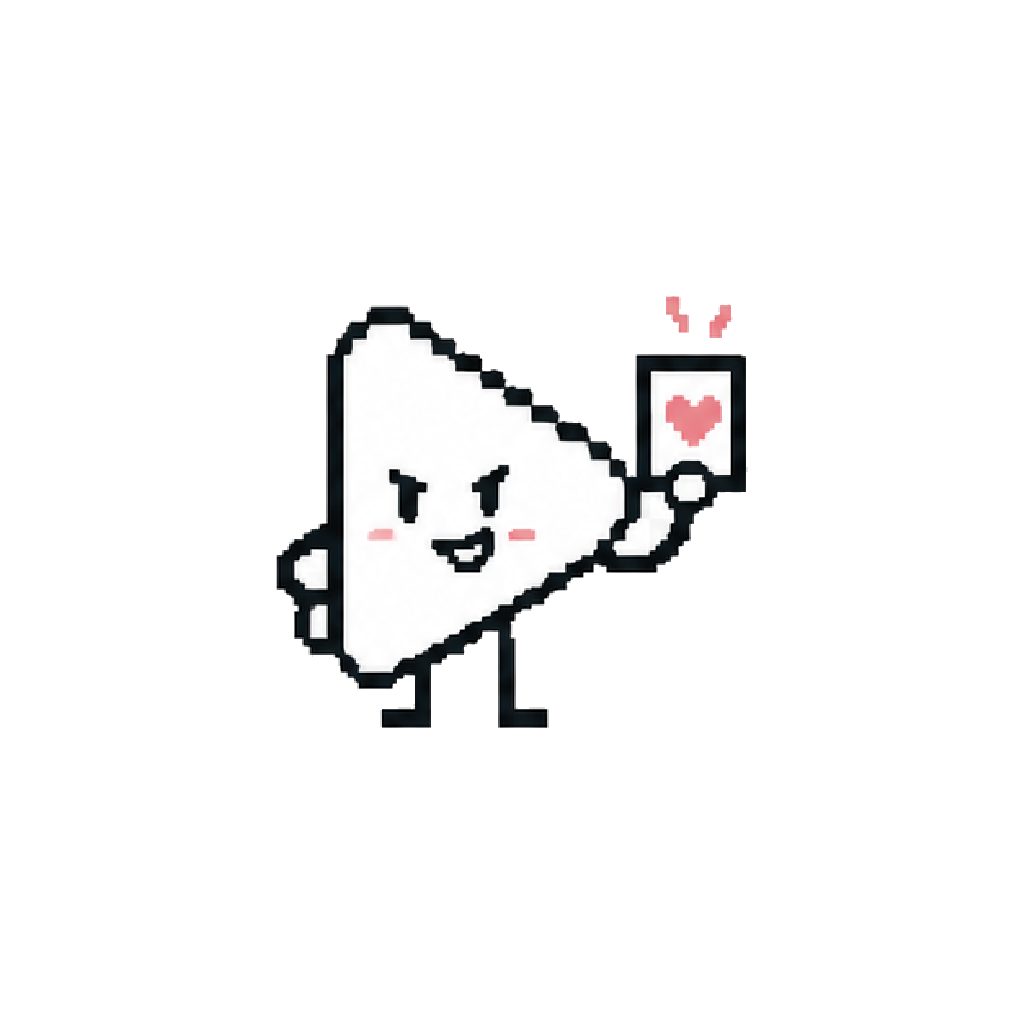
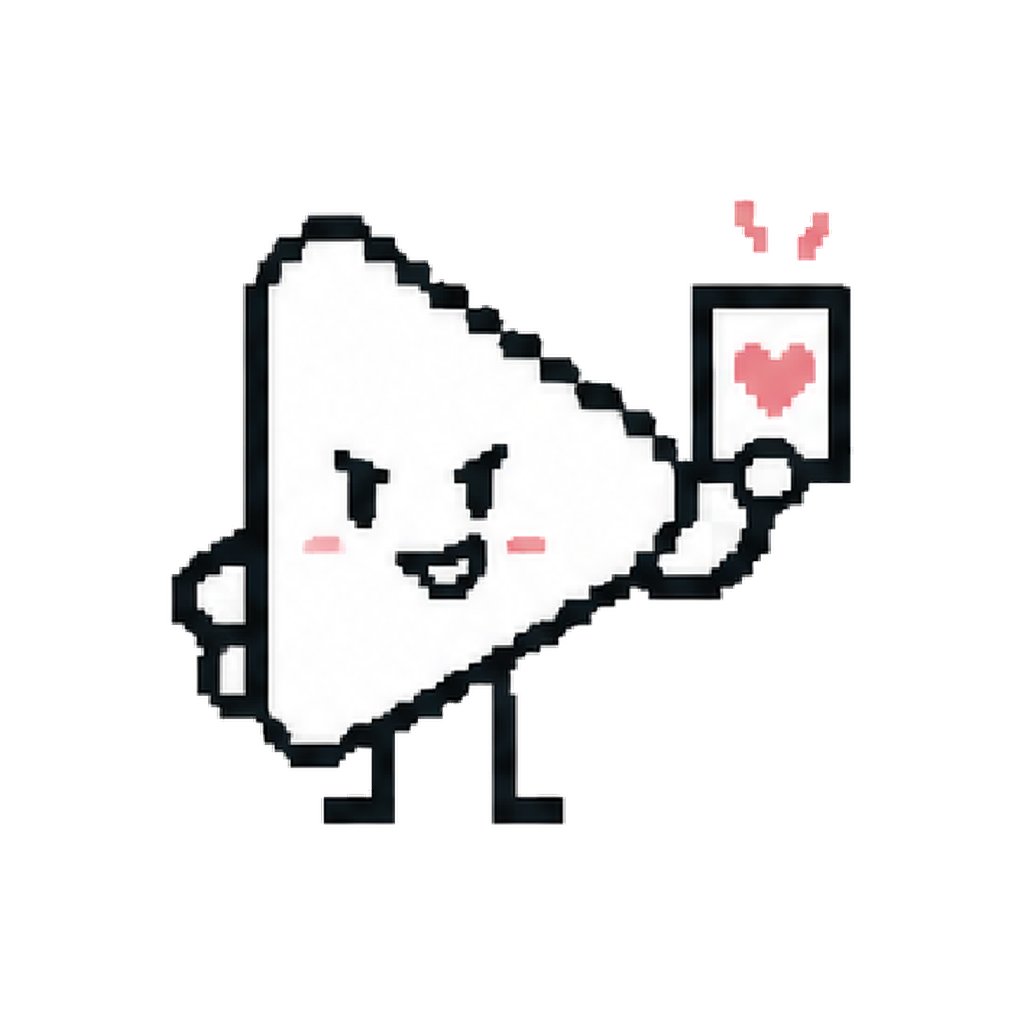
feat: 로고 통일·클릭 이동 + 로딩 화면 픽터/사진 일관성
- 모든 페이지 로고를 랜딩 기준으로 통일 (height 48, paddingTop 12, 상단 고정 중앙)
  preference엔 로고 신규 추가(뒤로가기는 좌상단 absolute로 분리)
- 모든 페이지 로고 터치 → 메인(/) 이동
- 스토리 카드 로고 84→130 (result 페이지와 상대 비율 맞춤)
- 로딩 화면:
  - 1·2단계 사진 썸네일 흐림(opacity 0.65/0.5) 제거 → 1.0, 0단계와 일관
  - 픽터 PNG(analyzing·music-picking·found) 재크롭 — 캔버스 대비 캐릭터
    비율 41~47% → ~67%로 타이트하게, 3단계 width 112로 통일
  - 1단계 found.png, 2단계 music-picking.png로 교체
    (vibe-groove는 preference hero 전용 — 중복 제거)

Changed region(s): [[0.1562, 0.1875, 0.8438, 0.8125]]

diff --git a/src/app/preference/page.tsx b/src/app/preference/page.tsx
@@ -236,14 +236,24 @@ export default function PreferencePage() {
     >
       <HamburgerMenu />
 
-      {/* 상단 바 — 뒤로가기만 */}
-      <div className="flex items-center px-5 pt-12 pb-3">
-        <button
-          onClick={() => router.back()}
-          style={{ fontSize: 20, color: "#5D4F8C", background: "none", border: "none", cursor: "pointer" }}
-        >
-          ←
-        </button>
+      {/* 뒤로가기 — 좌상단 (HamburgerMenu와 같은 top band) */}
+      <button
+        onClick={() => router.back()}
+        aria-label="뒤로"
+        style={{ position: "absolute", top: 16, left: 16, fontSize: 22, color: "#5D4F8C", background: "none", border: "none", cursor: "pointer", zIndex: 50, lineHeight: 1 }}
+      >
+        ←
+      </button>
+
+      {/* 상단 앱 로고 — 랜딩 페이지와 동일 */}
+      <div className="flex justify-center" style={{ paddingTop: 12, flexShrink: 0 }}>
+        {/* eslint-disable-next-line @next/next/no-img-element */}
+        <img
+          src="/branding/play-the-picture-logo-one-line.png"
+          alt="Play the Picture"
+          onClick={() => router.push("/")}
+          style={{ height: 48, width: "auto", cursor: "pointer" }}
+        />
       </div>
 
       {/* 픽터 hero + 말풍선 (말풍선이 픽터 위) */}
@@ -466,7 +476,7 @@ export default function PreferencePage() {
                 src="/characters/pikter/analyzing.png"
                 alt=""
                 className="pixel-art"
-                style={{ width: 140, height: 140, marginBottom: 4, animation: "float 2.8s ease-in-out infinite" }}
+                style={{ width: 112, height: 112, marginBottom: 4, animation: "float 2.8s ease-in-out infinite" }}
               />
               <p style={{ color: "#2e2547", fontSize: 17, fontWeight: 600, textAlign: "center", letterSpacing: "-0.3px" }}>
                 사진 속 오늘을 읽고 있어요
@@ -488,7 +498,7 @@ export default function PreferencePage() {
                   <div style={{ display: "flex", gap, justifyContent: "center", flexWrap: "wrap", marginBottom: 36 }}>
                     {loadingPhotos.map((src, i) => (
                       // eslint-disable-next-line @next/next/no-img-element
-                      <img key={i} src={src} alt="" style={{ width: sz, height: sz, objectFit: "cover", borderRadius: 14, border: "2px solid rgba(255,255,255,0.6)", opacity: 0.65, flexShrink: 0 }} />
+                      <img key={i} src={src} alt="" style={{ width: sz, height: sz, objectFit: "cover", borderRadius: 14, border: "2px solid rgba(255,255,255,0.6)", opacity: 1, flexShrink: 0 }} />
                     ))}
                     {loadingPhotos.length === 0 && (
                       <div style={{ width: 88, height: 88, borderRadius: 14, background: "rgba(255,255,255,0.4)", border: "2px solid rgba(255,255,255,0.55)" }} />
@@ -498,10 +508,10 @@ export default function PreferencePage() {
               })()}
               {/* eslint-disable-next-line @next/next/no-img-element */}
               <img
-                src="/characters/pikter/music-picking.png"
+                src="/characters/pikter/found.png"
                 alt=""
                 className="pixel-art"
-                style={{ width: 140, height: 140, marginBottom: 4, animation: "float 2.8s ease-in-out infinite" }}
+                style={{ width: 112, height: 112, marginBottom: 4, animation: "float 2.8s ease-in-out infinite" }}
               />
               <p style={{ color: "#2e2547", fontSize: 17, fontWeight: 600, textAlign: "center", letterSpacing: "-0.3px" }}>
                 사진 속 오늘을 다 읽었어요
@@ -520,7 +530,7 @@ export default function PreferencePage() {
                   <div style={{ display: "flex", gap, justifyContent: "center", flexWrap: "wrap", marginBottom: 36 }}>
                     {loadingPhotos.map((src, i) => (
                       // eslint-disable-next-line @next/next/no-img-element
-                      <img key={i} src={src} alt="" style={{ width: sz, height: sz, objectFit: "cover", borderRadius: 14, border: "2px solid rgba(255,255,255,0.6)", opacity: 0.5, flexShrink: 0 }} />
+                      <img key={i} src={src} alt="" style={{ width: sz, height: sz, objectFit: "cover", borderRadius: 14, border: "2px solid rgba(255,255,255,0.6)", opacity: 1, flexShrink: 0 }} />
                     ))}
                     {loadingPhotos.length === 0 && (
                       <div style={{ width: 88, height: 88, borderRadius: 14, background: "rgba(255,255,255,0.4)", border: "2px solid rgba(255,255,255,0.55)" }} />
@@ -530,7 +540,7 @@ export default function PreferencePage() {
               })()}
               {/* eslint-disable-next-line @next/next/no-img-element */}
               <img
-                src="/characters/pikter/vibe-groove.png"
+                src="/characters/pikter/music-picking.png"
                 alt=""
                 className="pixel-art"
                 style={{ width: 112, height: 112, marginBottom: 4, animation: "float 2.8s ease-in-out infinite" }}

diff --git a/src/app/result/page.tsx b/src/app/result/page.tsx
@@ -731,13 +731,14 @@ export default function ResultPage() {
     >
       <div>
 
-      {/* 상단 앱 로고 */}
-      <div className="flex justify-center" style={{ paddingTop: 22, paddingBottom: 8 }}>
+      {/* 상단 앱 로고 — 랜딩 페이지와 동일 (다크 배경이라 invert) */}
+      <div className="flex justify-center" style={{ paddingTop: 12, flexShrink: 0 }}>
         {/* eslint-disable-next-line @next/next/no-img-element */}
         <img
           src="/branding/play-the-picture-logo-one-line.png"
           alt="Play the Picture"
-          style={{ height: 40, width: "auto", filter: "invert(1)", opacity: 0.92 }}
+          onClick={() => router.push("/")}
+          style={{ height: 48, width: "auto", filter: "invert(1)", opacity: 0.92, cursor: "pointer" }}
         />
       </div>
 
@@ -1418,7 +1419,7 @@ export default function ResultPage() {
             alt="Play the Picture"
             decoding="sync"
             loading="eager"
-            style={{ height: 84, width: "auto", opacity: 0.92 }}
+            style={{ height: 130, width: "auto", opacity: 0.92 }}
           />
         </div>
 

diff --git a/src/app/journal/page.tsx b/src/app/journal/page.tsx
@@ -241,13 +241,14 @@ export default function JournalPage() {
     >
       <HamburgerMenu />
 
-      {/* 상단 앱 로고 */}
-      <div className="flex justify-center" style={{ paddingTop: 48, paddingBottom: 6 }}>
+      {/* 상단 앱 로고 — 랜딩 페이지와 동일 */}
+      <div className="flex justify-center" style={{ paddingTop: 12, flexShrink: 0 }}>
         {/* eslint-disable-next-line @next/next/no-img-element */}
         <img
           src="/branding/play-the-picture-logo-one-line.png"
           alt="Play the Picture"
-          style={{ height: 36, width: "auto" }}
+          onClick={() => router.push("/")}
+          style={{ height: 48, width: "auto", cursor: "pointer" }}
         />
       </div>
 

diff --git a/src/app/share/[id]/ShareClient.tsx b/src/app/share/[id]/ShareClient.tsx
@@ -268,13 +268,14 @@ export default function ShareClient({ id }: { id: string }) {
 
       <div className="min-h-screen flex flex-col" style={{ position: "relative", zIndex: 1, background: entry.album_art ? "transparent" : "linear-gradient(158deg, #0d1a10 0%, #0d1218 50%, #1a1408 100%)" }}>
 
-        {/* 상단 앱 로고 — result 페이지와 동일 */}
-        <div className="flex justify-center" style={{ paddingTop: 22, paddingBottom: 8 }}>
+        {/* 상단 앱 로고 — 랜딩 페이지와 동일 (다크 배경이라 invert) */}
+        <div className="flex justify-center" style={{ paddingTop: 12, flexShrink: 0 }}>
           {/* eslint-disable-next-line @next/next/no-img-element */}
           <img
             src="/branding/play-the-picture-logo-one-line.png"
             alt="Play the Picture"
-            style={{ height: 40, width: "auto", filter: "invert(1)", opacity: 0.92 }}
+            onClick={() => router.push("/")}
+            style={{ height: 48, width: "auto", filter: "invert(1)", opacity: 0.92, cursor: "pointer" }}
           />
         </div>
 

diff --git a/src/app/page.tsx b/src/app/page.tsx
@@ -223,7 +223,8 @@ export default function UploadPage() {
         <img
           src="/branding/play-the-picture-logo-one-line.png"
           alt="Play the Picture"
-          style={{ height: 48, width: "auto" }}
+          onClick={() => router.push("/")}
+          style={{ height: 48, width: "auto", cursor: "pointer" }}
         />
       </div>
 